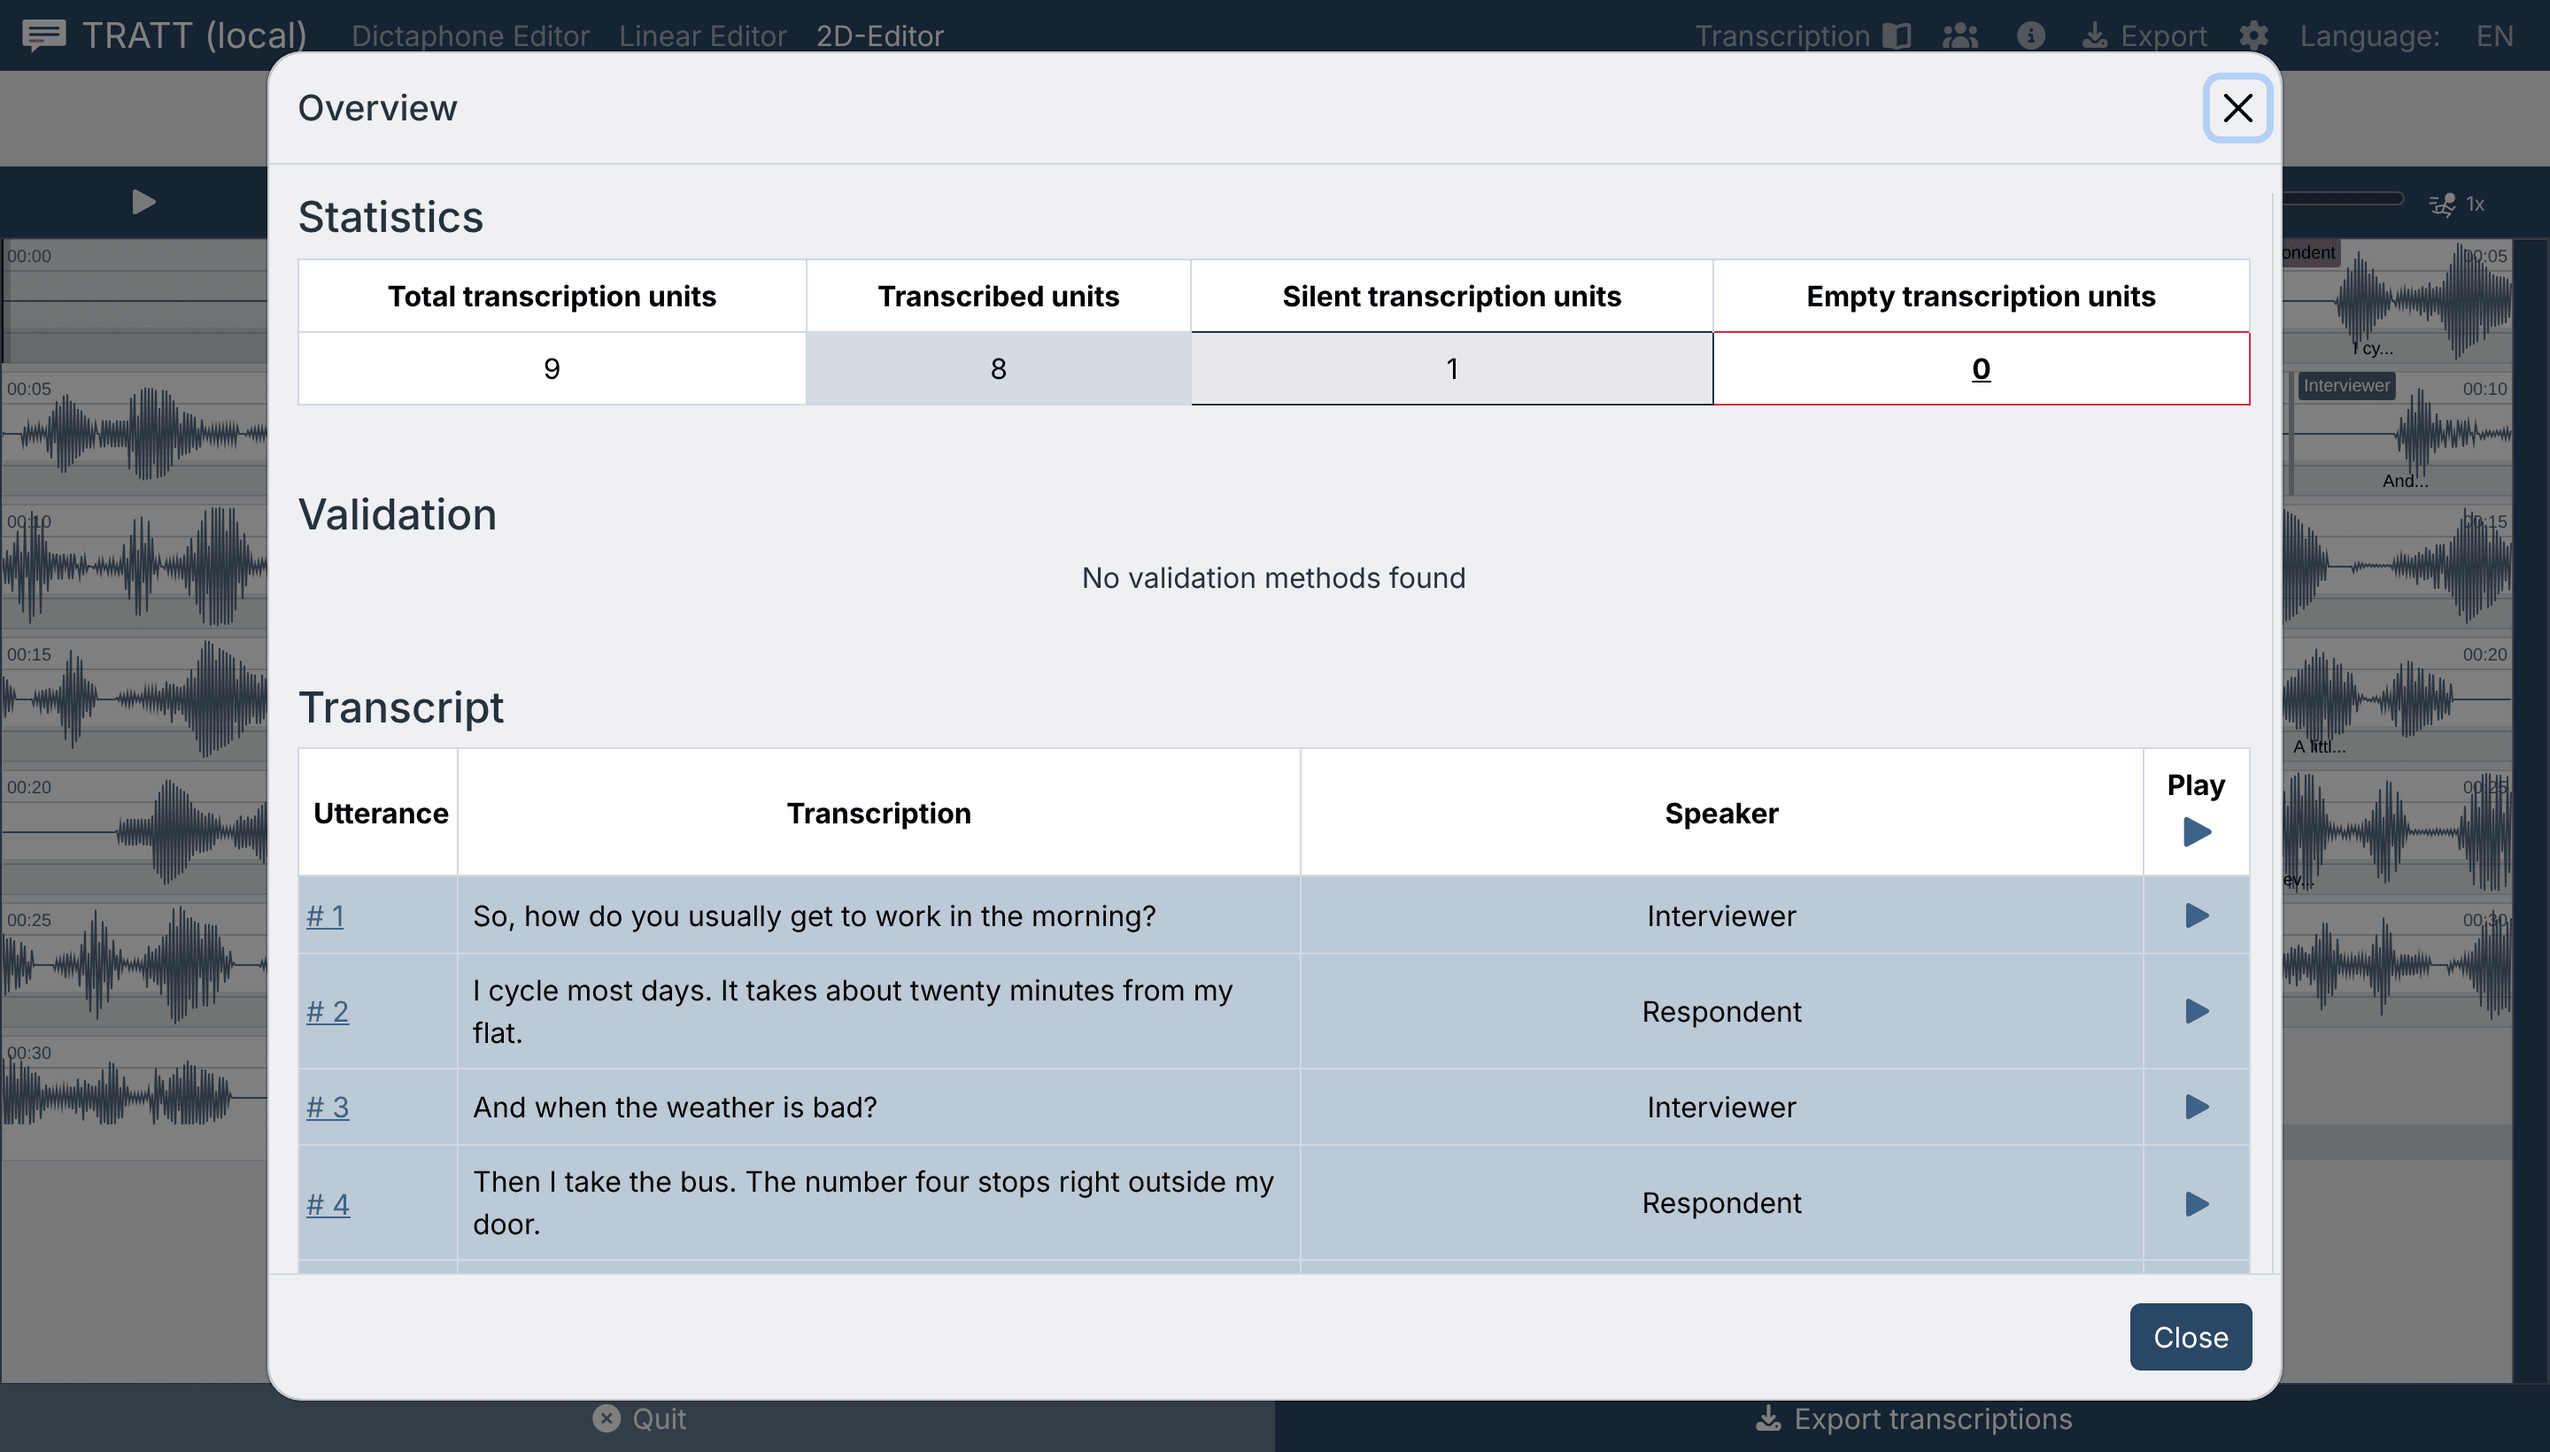
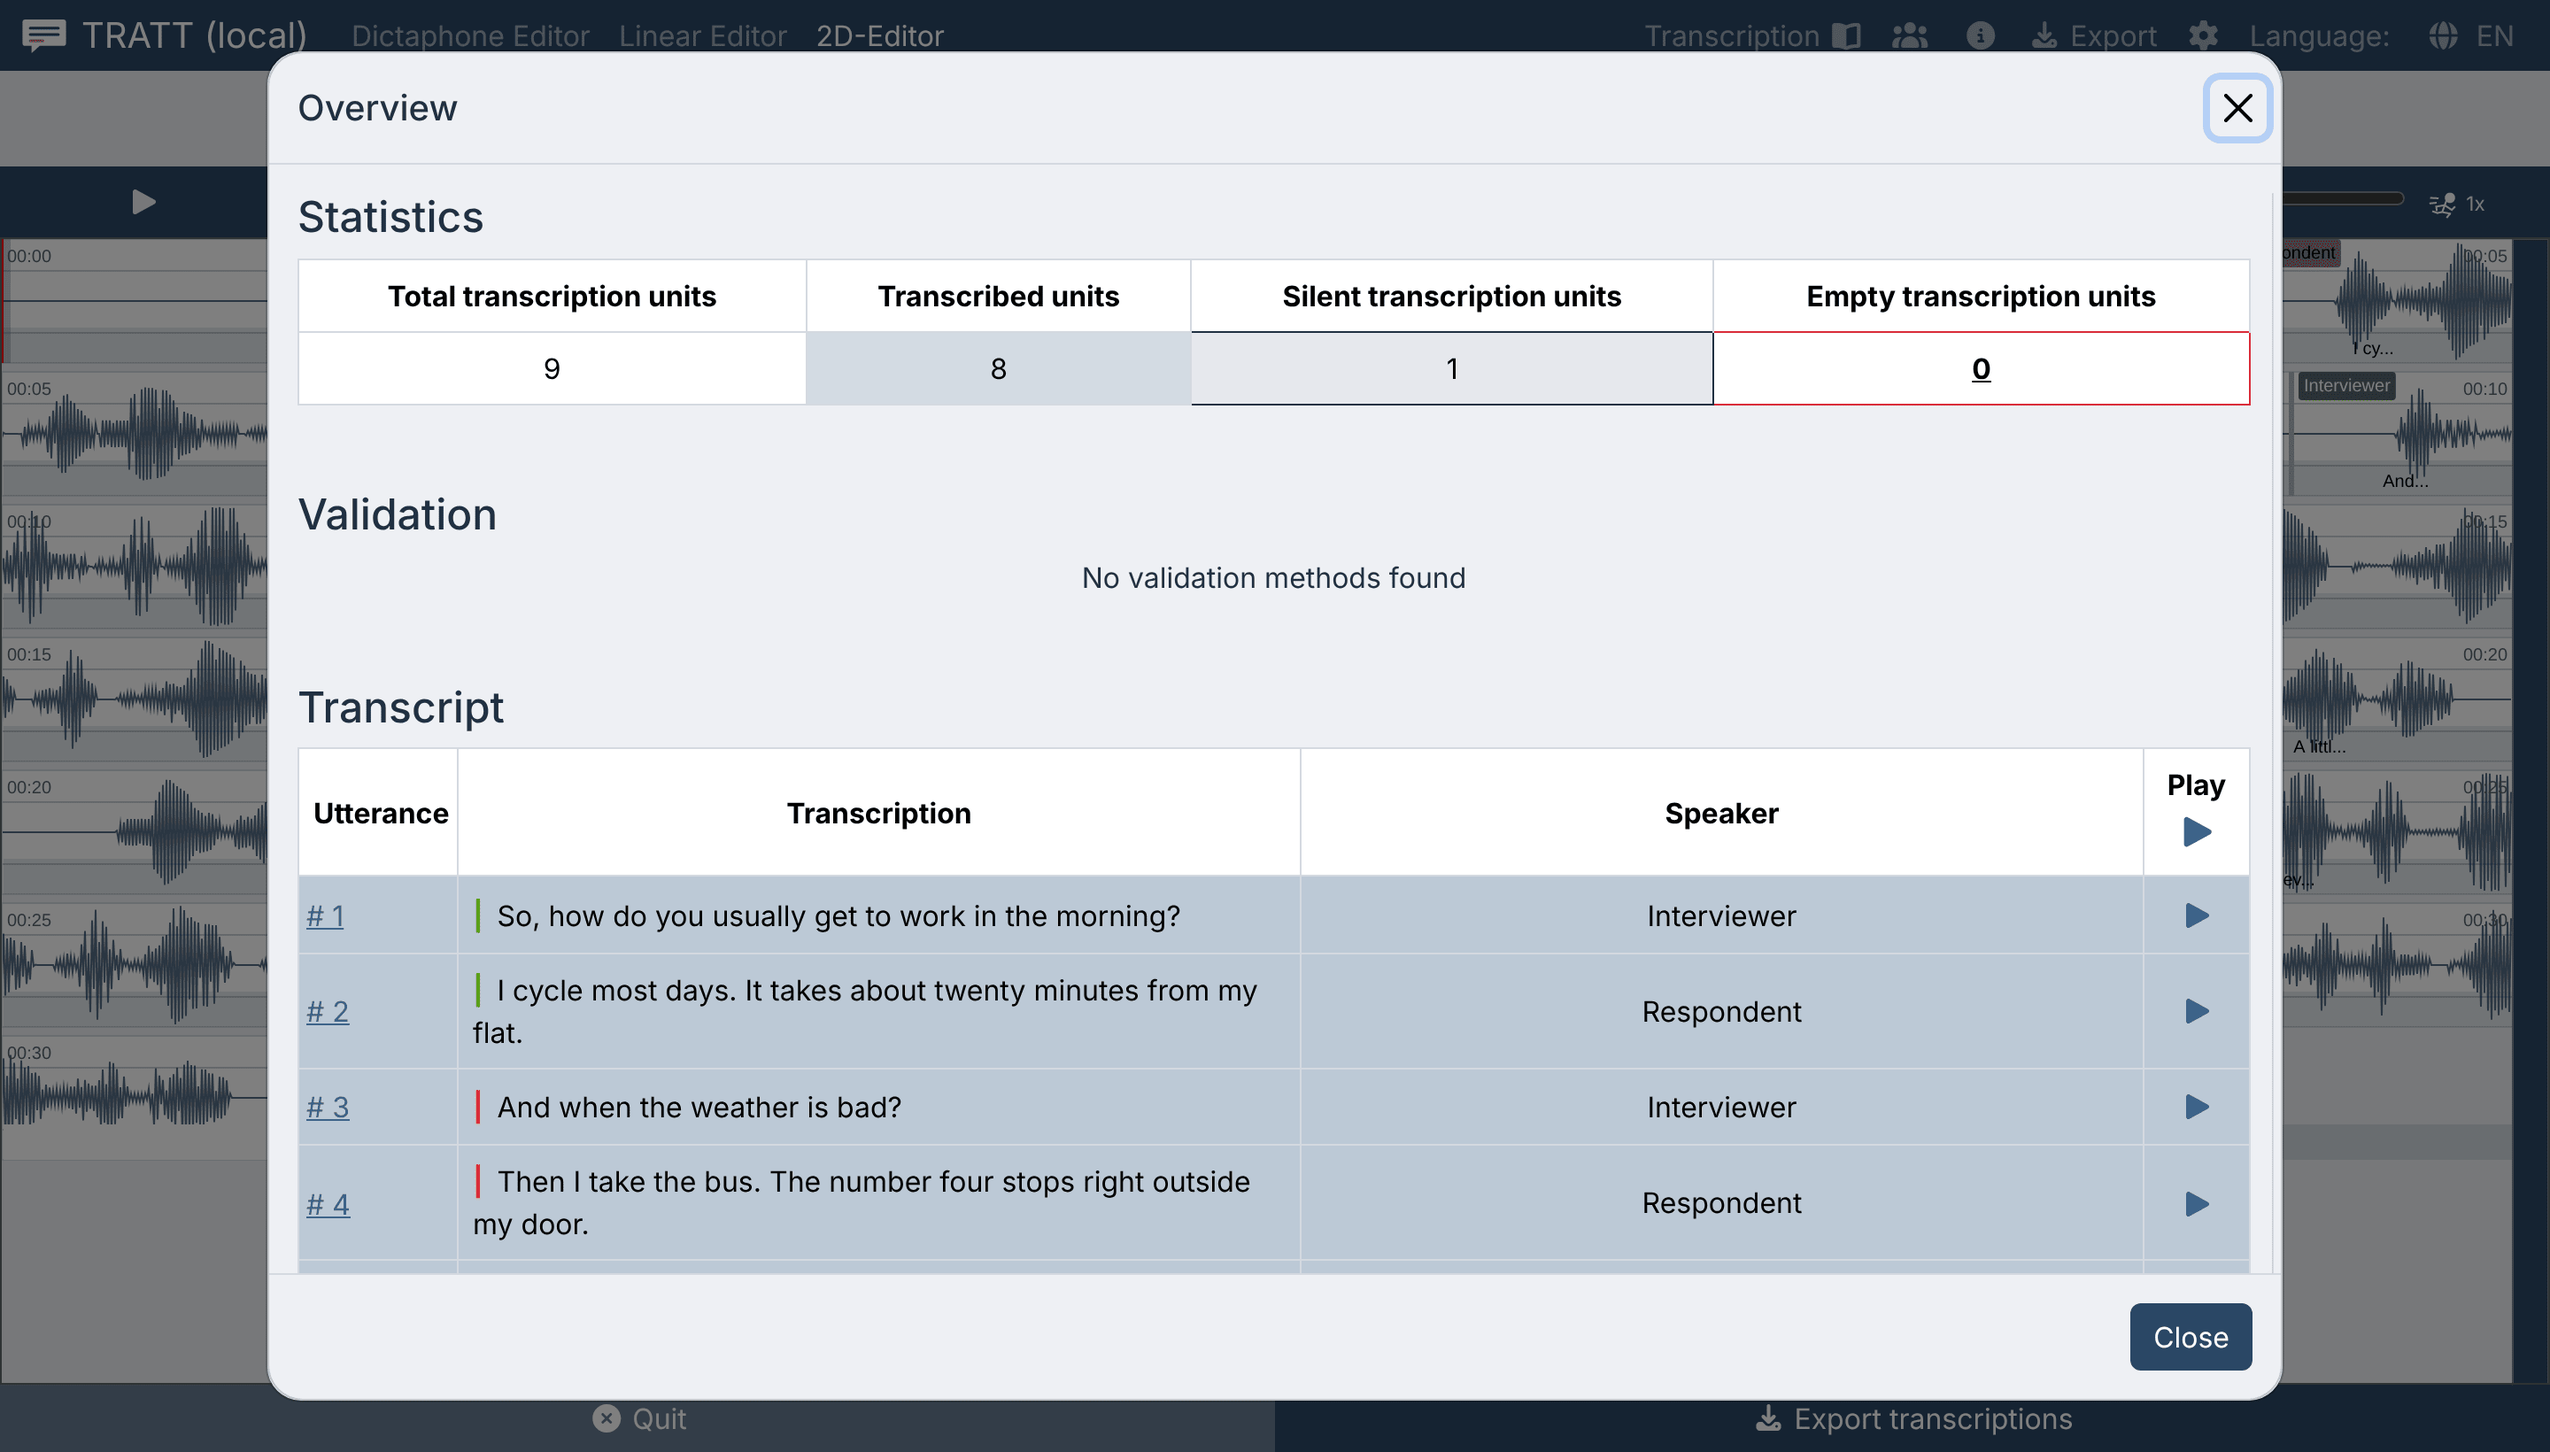
docs(manual): re-shoot the Overview and Workbench from the 2.6 build
Both pictures were taken before the changes they are supposed to illustrate.

The Overview now carries the verification markers, so the old shot showed a
table with no coloured bars next to a section describing them. The new one is
part-checked: the first two utterances green, the rest orange, which is what a
reader sees after working through the opening of a file. It is produced from an
SRT whose later lines carry the not-check mark, since an unmarked import comes
in verified.

The Workbench drop area reads "Drop audio files or a previously exported archive
here" again. An earlier commit replaced that quotation with the wording of a
build that was a few hours behind main, and the screenshot was taken from that
same build; both are corrected here, in English and Swedish.

CONTRIBUTING records that these two come from the 22 October build rather than
the 8 October one the other seven share, and how the part-checked state is made.

Validated: 16 pages x 2 languages, all links/anchors/deep links resolve.

Claude-Session: https://claude.ai/code/session_01QQLU6CYqGJ5viv8qPtjfyj

diff --git a/docs/manual/CONTRIBUTING.md b/docs/manual/CONTRIBUTING.md
@@ -161,8 +161,11 @@ Not exercised live, and therefore still source-derived only:
 
 ## Screenshots
 
-The nine screenshots in `docs/assets/` were all taken from the same build, in the
-same session, so the chrome matches from page to page:
+The nine screenshots in `docs/assets/` are taken from a production build served
+locally, so the chrome matches from page to page. Seven of them come from one
+session on the 8 October build; the Overview and the Workbench were re-shot from
+the 22 October build, which is the first to carry the verification markers and the
+current drop-area wording.
 
 | File | Shows | Used by |
 | --- | --- | --- |
@@ -172,7 +175,7 @@ same session, so the chrome matches from page to page:
 | `visp_tratt_popup_editor_audio_only.png` | The transcription window over the 2D-Editor | `quick-start.md`, `the-editors.md` |
 | `visp_tratt_dictaphone_editor.png` | The Dictaphone Editor | `the-editors.md` |
 | `visp_tratt_linear_editor.png` | The Linear Editor, both displays, one unit open | `the-editors.md` |
-| `visp_tratt_overview_edit.png` | The Overview window | `quick-start.md`, `checking-your-work.md` |
+| `visp_tratt_overview_edit.png` | The Overview window, with verified and non-verified markers | `quick-start.md`, `checking-your-work.md` |
 | `visp_tratt_export_formats.png` | The export dialog | `quick-start.md`, `exporting.md` |
 | `visp_tratt_workbench.png` | The Workbench with four recordings | `workbench.md` |
 
@@ -188,6 +191,12 @@ How to reproduce them:
   separate levels** left off, which is what puts the coloured `Interviewer` and
   `Respondent` badges on the units instead of splitting them into two tiers.
 - The imported tier is renamed from `OCTRA_1` to `Transcription` before shooting.
+- The Overview needs a part-checked transcript, or every row is the same colour.
+  An SRT that TRATT itself has imported comes in verified unless the text carries
+  the not-check mark, so `interview-01-mixed.srt` appends `⍻` (U+237B) to every
+  line but the first two. The first two then show the green marker and the rest
+  the orange one, which is what the reader sees after checking the opening of a
+  file. See [Verification marks](exporting.md#verification-marks-in-time-aligned-formats).
 - Viewport 1440 × 820 at a device pixel ratio of 2 for the editor pages, 1480 × 900
   for the Workbench, 1360 wide for the start page. **Below 1400 px the editor
   switcher collapses to icons**, so do not shoot the editor narrower than that.

diff --git a/docs/manual/sv/workbench.md b/docs/manual/sv/workbench.md
@@ -50,7 +50,7 @@ Fyra saker ligger till vänster, uppifrån och ned:
 1. **Filer** med antalet inspelningar, och knapparna **Exportera alla**,
    **Rensa klara** och **Ta bort**.
 2. Flikarna **Ladda upp fil** och **Spela in nu** över en släppyta:
-   *Släpp ljudfiler här, eller klicka för att välja. Flera filer samtidigt går bra.*
+   *Släpp ljudfiler eller tidigare exporterat arkiv här*.
 3. **Pipelineinställningar**: vad som händer med en fil automatiskt, och knappen
    som startar kön.
 4. Två kapacitetsmätare: **Webbläsarlagring** och **Arbetsminne (uppskattat)**.

diff --git a/docs/manual/workbench.md b/docs/manual/workbench.md
@@ -47,7 +47,7 @@ Four things sit on the left, from top to bottom:
 1. **Files** with the number of recordings, and the buttons **Export all**,
    **Clear finished** and **Remove**.
 2. The **Upload file** and **Record now** tabs over a drop area:
-   *Drop audio files here, or click to browse. Several at once is fine.*
+   *Drop audio files or a previously exported archive here*.
 3. **Pipeline settings**: what happens to a file automatically, and the button
    that starts the queue.
 4. Two capacity meters: **Browser storage** and **Working memory (est.)**.
